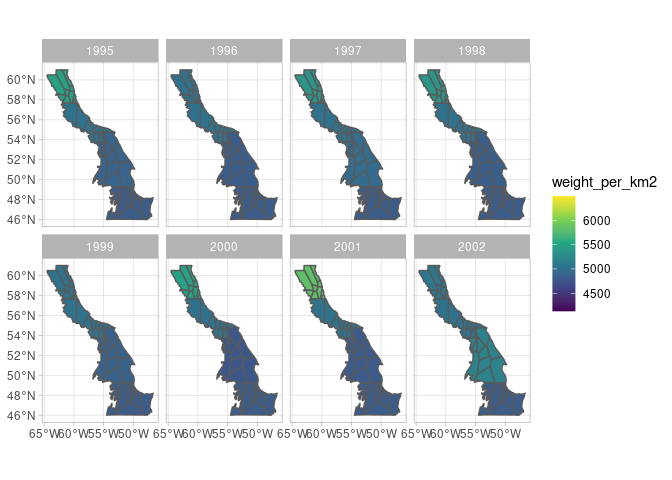
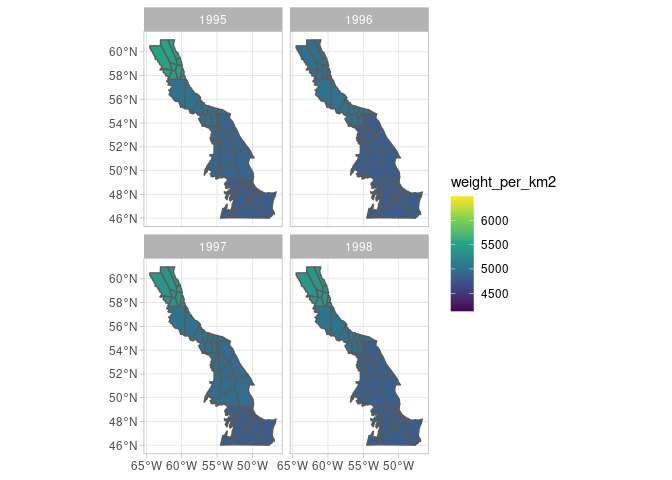
fix aggregation in plot, update readme

diff --git a/README.md b/README.md
@@ -190,18 +190,18 @@ spm_patches(bounds_voronoi)
 #> Bounding box:  xmin: -64.5 ymin: 46.00004 xmax: -46.6269 ymax: 61
 #> Geodetic CRS:  WGS 84
 #> # A tibble: 38 × 4
-#>    sfa   patch_id                                                geometry   area
-#>  * <fct> <fct>                                              <POLYGON [°]> [km^2]
-#>  1 4     P1       ((-64.42169 60.27125, -64.42 60.27206, -64.41666 60.27… 20367.
-#>  2 4     P2       ((-59.95566 58.64882, -60.25261 57.73692, -59.67678 58…  1719.
-#>  3 4     P3       ((-61.89804 57.6918, -61.34602 58.43681, -61.36857 58.…  3883.
-#>  4 4     P4       ((-60.50931 57.66667, -60.87958 58.41518, -61.34602 58…  4684.
-#>  5 4     P5       ((-61.34602 58.43681, -60.87958 58.41518, -60.68359 58…  2687.
-#>  6 4     P6       ((-63 60.62184, -61.66155 59.11637, -60.6936 58.90276,… 14504.
-#>  7 4     P7       ((-60.26194 59.52858, -60.73068 59.34113, -60.6936 58.…  2449.
-#>  8 4     P8       ((-59.91649 58.83888, -60.68359 58.8793, -60.87958 58.…  6259.
-#>  9 4     P9       ((-61.96379 61, -60.73068 59.34113, -60.26194 59.52858…  5308.
-#> 10 5     P10      ((-59.55703 55.21506, -59.53354 57.66667, -59.56667 57… 27940.
+#>    sfa   patch_id patch_area                                            geometry
+#>    <fct> <fct>        [km^2]                                       <POLYGON [°]>
+#>  1 4     P1           20367. ((-64.42169 60.27125, -64.42 60.27206, -64.41666 6…
+#>  2 4     P2            1719. ((-59.95566 58.64882, -60.25261 57.73692, -59.6767…
+#>  3 4     P3            3883. ((-61.89804 57.6918, -61.34602 58.43681, -61.36857…
+#>  4 4     P4            4684. ((-60.50931 57.66667, -60.87958 58.41518, -61.3460…
+#>  5 4     P5            2687. ((-61.34602 58.43681, -60.87958 58.41518, -60.6835…
+#>  6 4     P6           14504. ((-63 60.62184, -61.66155 59.11637, -60.6936 58.90…
+#>  7 4     P7            2449. ((-60.26194 59.52858, -60.73068 59.34113, -60.6936…
+#>  8 4     P8            6259. ((-59.91649 58.83888, -60.68359 58.8793, -60.87958…
+#>  9 4     P9            5308. ((-61.96379 61, -60.73068 59.34113, -60.26194 59.5…
+#> 10 5     P10          27940. ((-59.55703 55.21506, -59.53354 57.66667, -59.5666…
 #> # … with 28 more rows
 spm_points(bounds_voronoi)
 #> Simple feature collection with 40 features and 19 fields
@@ -265,7 +265,7 @@ biomass_smooth
     vars” above) can be easily plotted:
 
 ``` r
-plot(biomass_smooth, var = "weight_per_km2", log = FALSE)
+plot(biomass_smooth, var = "weight_per_km2", log = FALSE, aggregate = T)
 ```
 
 <img src="man/figures/README-unnamed-chunk-12-1.png" width="100%" /> You
@@ -456,18 +456,25 @@ plot(sspm_model_fit, train_test = TRUE, scales = "free")
 ``` r
 preds <- predict(sspm_model_fit)
 head(preds)
-#> Simple feature collection with 6 features and 5 fields
+#> Simple feature collection with 6 features and 6 fields
 #> Geometry type: POLYGON
 #> Dimension:     XY
 #> Bounding box:  xmin: -64.5 ymin: 58.4628 xmax: -61.36857 ymax: 60.62184
 #> Geodetic CRS:  WGS 84
-#>       pred_log     pred patch_id year_f sfa                       geometry
-#> 1  0.008623623 1.008661       P1   1995   4 POLYGON ((-64.42169 60.2712...
-#> 2 -0.016062267 0.984066       P1   1996   4 POLYGON ((-64.42169 60.2712...
-#> 3  0.097726961 1.102662       P1   1997   4 POLYGON ((-64.42169 60.2712...
-#> 4  0.016055112 1.016185       P1   1998   4 POLYGON ((-64.42169 60.2712...
-#> 5  0.010394597 1.010449       P1   1999   4 POLYGON ((-64.42169 60.2712...
-#> 6  0.099560892 1.104686       P1   2000   4 POLYGON ((-64.42169 60.2712...
+#>       pred_log     pred patch_id year_f sfa      patch_area
+#> 1  0.008623623 1.008661       P1   1995   4 20367.39 [km^2]
+#> 2 -0.016062267 0.984066       P1   1996   4 20367.39 [km^2]
+#> 3  0.097726961 1.102662       P1   1997   4 20367.39 [km^2]
+#> 4  0.016055112 1.016185       P1   1998   4 20367.39 [km^2]
+#> 5  0.010394597 1.010449       P1   1999   4 20367.39 [km^2]
+#> 6  0.099560892 1.104686       P1   2000   4 20367.39 [km^2]
+#>                         geometry
+#> 1 POLYGON ((-64.42169 60.2712...
+#> 2 POLYGON ((-64.42169 60.2712...
+#> 3 POLYGON ((-64.42169 60.2712...
+#> 4 POLYGON ((-64.42169 60.2712...
+#> 5 POLYGON ((-64.42169 60.2712...
+#> 6 POLYGON ((-64.42169 60.2712...
 ```
 
 We can also get the predictions for biomass by passing the biomass
@@ -481,7 +488,7 @@ head(biomass_preds)
 #> Dimension:     XY
 #> Bounding box:  xmin: -64.5 ymin: 58.4628 xmax: -61.36857 ymax: 60.62184
 #> Geodetic CRS:  WGS 84
-#>   patch_id year_f sfa            area biomass_density_with_catch
+#>   patch_id year_f sfa      patch_area biomass_density_with_catch
 #> 1       P1   1995   4 20367.39 [km^2]                   5541.089
 #> 2       P1   1996   4 20367.39 [km^2]                   4923.462
 #> 3       P1   1997   4 20367.39 [km^2]                   5912.102
@@ -509,14 +516,14 @@ head(biomass_one_step)
 #> Bounding box:  xmin: -64.5 ymin: 57.66667 xmax: -59.65562 ymax: 61
 #> Geodetic CRS:  WGS 84
 #> # A tibble: 6 × 6
-#>   year_f sfa      biomass patch_id                               geometry   area
-#>    <dbl> <fct>      <dbl> <fct>                             <POLYGON [°]> [km^2]
-#> 1   2019 4     130032236. P1       ((-64.42169 60.27125, -64.42 60.27206… 20367.
-#> 2   2019 4      11130315. P2       ((-59.95566 58.64882, -60.25261 57.73…  1719.
-#> 3   2019 4      24737672. P3       ((-61.89804 57.6918, -61.34602 58.436…  3883.
-#> 4   2019 4      29934547. P4       ((-60.50931 57.66667, -60.87958 58.41…  4684.
-#> 5   2019 4      17161701. P5       ((-61.34602 58.43681, -60.87958 58.41…  2687.
-#> 6   2019 4      92678654. P6       ((-63 60.62184, -61.66155 59.11637, -… 14504.
+#>   year_f sfa      biomass patch_id patch_area                           geometry
+#>    <dbl> <fct>      <dbl> <fct>        [km^2]                      <POLYGON [°]>
+#> 1   2019 4     130032236. P1           20367. ((-64.42169 60.27125, -64.42 60.2…
+#> 2   2019 4      11130315. P2            1719. ((-59.95566 58.64882, -60.25261 5…
+#> 3   2019 4      24737672. P3            3883. ((-61.89804 57.6918, -61.34602 58…
+#> 4   2019 4      29934547. P4            4684. ((-60.50931 57.66667, -60.87958 5…
+#> 5   2019 4      17161701. P5            2687. ((-61.34602 58.43681, -60.87958 5…
+#> 6   2019 4      92678654. P6           14504. ((-63 60.62184, -61.66155 59.1163…
 ```
 
 18. We can produce an array of plots, as timeseries or as spatial plots
@@ -524,6 +531,7 @@ head(biomass_one_step)
 ``` r
 plot(sspm_model_fit)
 #> Warning: Removed 1 row(s) containing missing values (geom_path).
+#> Warning: Removed 38 rows containing missing values (geom_point).
 ```
 
 <img src="man/figures/README-unnamed-chunk-25-1.png" width="100%" />
@@ -535,7 +543,7 @@ plot(sspm_model_fit, use_sf = TRUE)
 <img src="man/figures/README-unnamed-chunk-25-2.png" width="100%" />
 
 ``` r
-plot(sspm_model_fit, biomass = "weight_per_km2_borealis")
+plot(sspm_model_fit, biomass = "weight_per_km2_borealis",  scales = "free")
 ```
 
 <img src="man/figures/README-unnamed-chunk-26-1.png" width="100%" />
@@ -547,9 +555,8 @@ plot(sspm_model_fit, biomass = "weight_per_km2_borealis", use_sf = TRUE)
 <img src="man/figures/README-unnamed-chunk-26-2.png" width="100%" />
 
 ``` r
-plot(sspm_model_fit, biomass = "weight_per_km2_borealis", next_ts = T, 
-     biomass_data_origin = biomass_smooth, 
-     biomass_var_origin = "weight_per_km2")
+plot(sspm_model_fit, biomass = "weight_per_km2_borealis", 
+     next_ts = TRUE, aggregate = TRUE, scales = "free")
 ```
 
 <img src="man/figures/README-unnamed-chunk-27-1.png" width="100%" />
